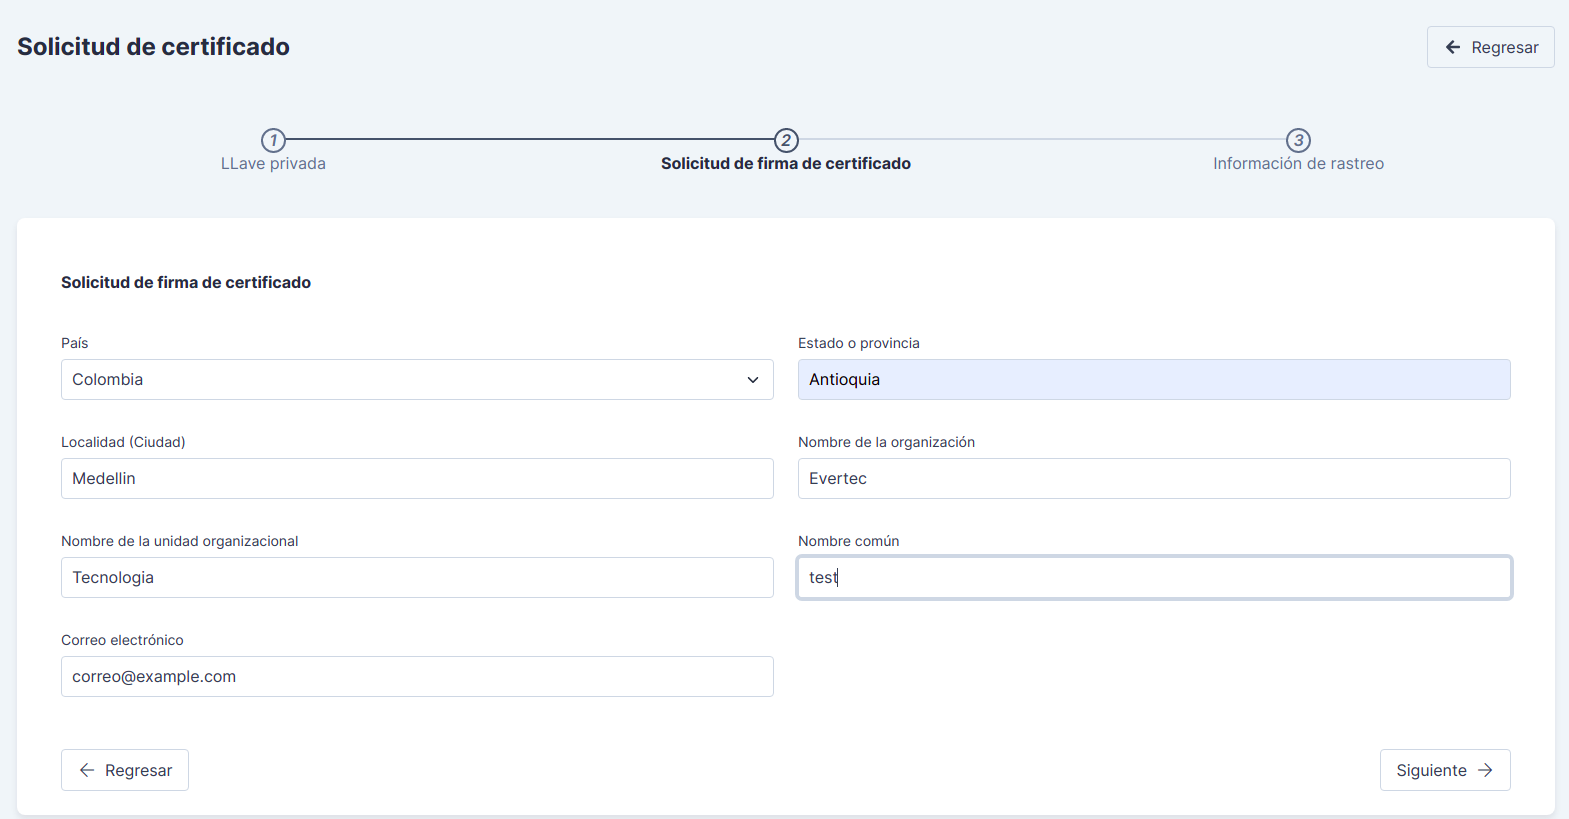
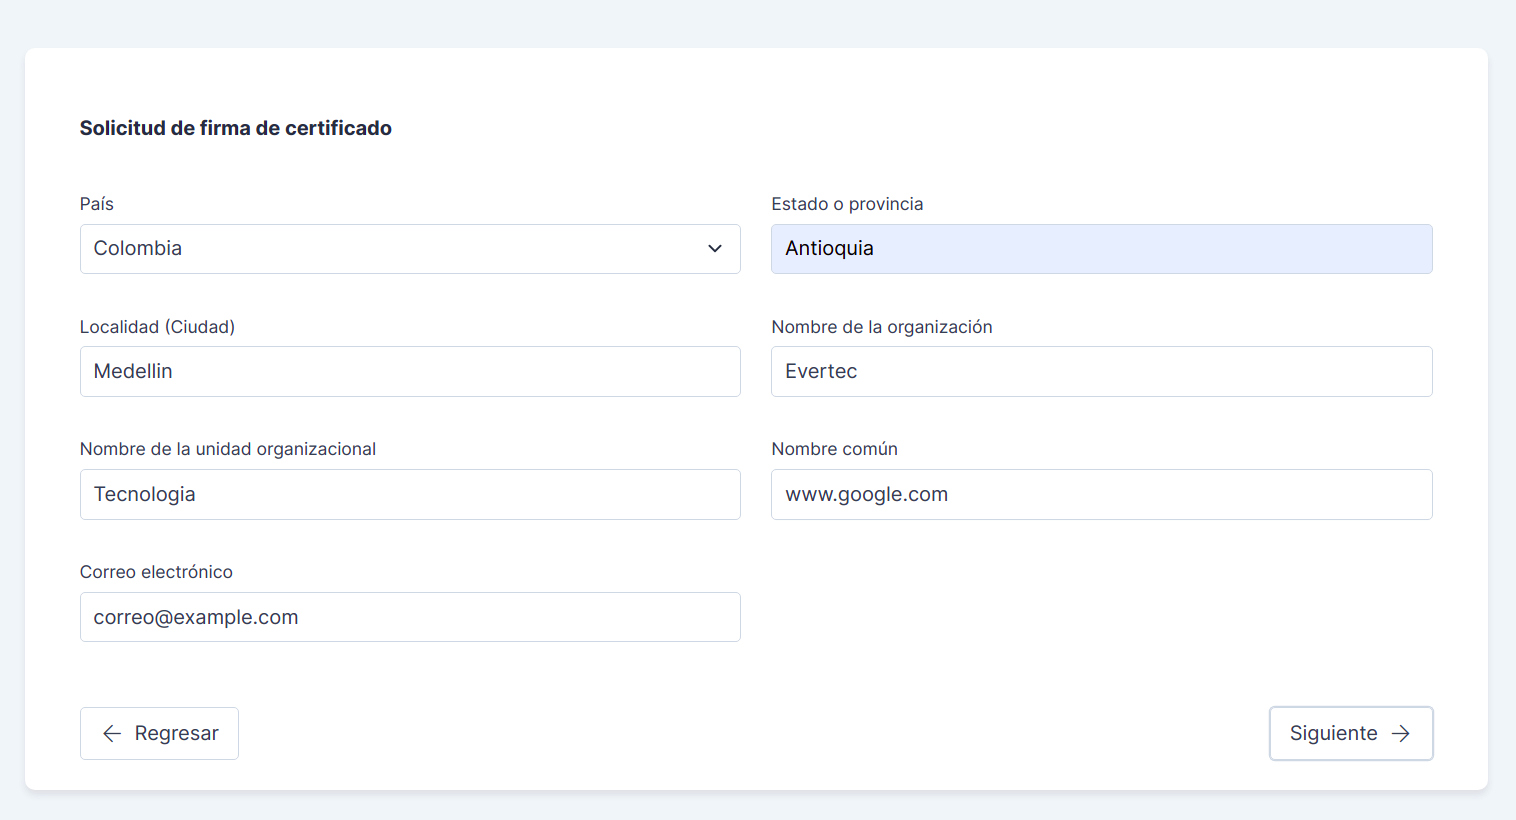
docs: Complement certificates and roles informations

diff --git a/docs/ACSSecurity.md b/docs/ACSSecurity.md
@@ -5,21 +5,40 @@ title: Roles
 
 # Roles
 
-Aquí se gestionan los roles de usuario de la aplicación. Inicialmente se tiene una vista con la lista de roles creados, los cuales se pueden ver, editar y eliminar. Además, se pueden crear nuevos roles diligenciando un nombre y opcionalmente una descripción para el mismo.
+Para acceder a este módulo y a los demás comprendidos en la categoria seguridad, dírijase al menú ubicado en la parte lateral izquierda, y despliegue la opción de *Seguridad*.
+
+![](../assets/images/security-menu.png)
+
+En este módulo se gestionan los roles de usuario de la aplicación. Inicialmente se tiene una vista con la lista de roles creados, los cuales se pueden ver, editar y eliminar haciendo clic en las opciones del menú desplegable ubicado en la parte lateral derecha. 
 
 ![](../assets/images/roles-index.png)
 
-### Asignación de permisos:
+### Crear nuevo rol:
+
+Además, se pueden crear nuevos roles mediante el botón *Crear*, ubicado en la parte lateral derecha. Se debe diligenciar un nombre y opcionalmente una descripción para el mismo.
+
+![](../assets/images/create-role.png)
+
+En la parte inferior de los detalles de un rol se puede visualizar una sección con tres pestañas que direccionan a tres funcionalidades diferentes:
+
+### 1. Permisos:
 
 Al dar clic en la opción *Ver* de un rol, se presentarán los detalles del rol seleccionado y en la parte inferior de la pantalla encontrará un menú como el siguiente:
 
 ![](../assets/images/permissions.png)
 
-Aquí puede buscar permisos referentes a diversas funcionalidades de ACS, seleccionarlos, denegarlos y concederlos. Estos permisos determinan las funcionalidades y acciones a las cuales tiene acceso el rol.
+Aquí se pueden buscar permisos referentes a diversas funcionalidades de ACS, seleccionarlos, denegarlos y concederlos. Estos permisos determinan las funcionalidades y acciones a las cuales tiene acceso el rol.
+Además, se pueden conceder y denegar otros roles al actual.
 
-### Roles ancestros:
+### 2. Roles ancestros:
 
-Aquí registran los roles que están utilizando el rol actual. Esto puede darse cuando se le concede un rol a otro rol en el menú de *Permisos*.
+Aquí registran los roles que están utilizando el rol actual. Esto puede darse cuando se le concede un rol a otro rol en el menú de *Permisos*. 
+
+> Al crear roles hijos, se permite extender funcionalidades y permisos de un rol padre sin necesidad de volver a asignar una lista de permisos.
+
+### 3. Usado por:
+
+En esta sección se listan los usuarios que usan el rol que seleccionó.
 
 <!--
 type: tab
@@ -28,9 +47,30 @@ title: Perfiles
 
 # Perfiles
 
-Los roles se asocian con los perfiles. El siguiente es un ejemplo de un índice de perfiles, en el cual puede ver, editar, habilitar o deshabilitar un perfil, haciendo clic en el menú lateral derecho. 
+Los roles se asocian con los perfiles. El siguiente es un ejemplo de un índice de perfiles.
+
+Para acceder a este módulo, el usuario con los permisos necesarios para crear los perfiles, ingresa a través del menú despegable ubicado en la izquierda del panel, en la pestaña de seguridad.
+
+Al ingresar al módulo, la plataforma muestra una tabla con los campos del nombre, descripción, rol y fechas de creación y actualización del perfil.
 
 ![](../assets/images/profiles-index.png)
+
+Cada perfil cuenta con unas opciones para ser gestionado como son la opción de ver, editar o deshabilitar.
+
+![](../assets/images/options-profile.png)
+
+- **Opción *Ver*:** Permite visualizar una información más detallada del perfil como son el nombre, si es un perfil compartido o no, la fecha de creación, actualización, y el usuario que lo creó, al igual que los permisos que el perfil tiene a disposición o los que desea agregar. 
+
+Un ejemplo de una vista de detalle de un perfil es el siguiente:
+
+![](../assets/images/detail-profile.png)
+
+- **Opción *Editar*:** Permite actualizar el nombre, descripción, rol y la opción de compartido.
+
+> Es importante tener en cuenta que un perfil no se puede eliminar, ya que existen actividades que se hanrealizado en nombre de ese perfil y si se pudiera eliminar, se puede producir un error. Por esta razón, la aplicación tiene la opción de deshabilitar el perfil para denegar el acceso.
+
+
+### Crear nuevo perfil:
 
 Para crear un nuevo perfil se solicitará:
 
@@ -40,6 +80,7 @@ Para crear un nuevo perfil se solicitará:
 - Compartido, puede habilitar o deshabilitar esta opción. Un perfil compartido se da cuando el perfil está siendo utilizado por otros roles.
 
 ![](../assets/images/profile-create.png)
+
 
 ### ACL:
 

diff --git a/docs/ACSConfigurations.md b/docs/ACSConfigurations.md
@@ -402,11 +402,11 @@ La siguiente imagen muestra un ejemplo de la vista de un índice de certificados
 
 ![](../assets/images/certificates-index.png)
 
-Los certificados se pueden editar y visualizar los detalles del mismo. 
+Los certificados se pueden editar y visualizar los detalles del mismo, haciendo clic en el menú con tres puntos ubicado en la parte lateral derecha de cada certificado.
 
 ## Creación de un certificado:
 
-Para crear un nuevo certificado haga clic en el botón *Crear*. La solicitud o creación del certificado consta de tres partes:
+Para crear un nuevo certificado en ACS, haga clic en el botón *Crear*. La solicitud o creación del certificado consta de tres partes:
 
 #### 1. Creación de la llave privada:
 
@@ -446,10 +446,13 @@ Para crear un nuevo certificado haga clic en el botón *Crear*. La solicitud o c
 
 Aquí se registran los datos de información general sobre el solicitante de la llave:
 
-- Ubicación.
-- Organización.
-- Nombre, debe ser un dominio.
-- Correo electrónico.
+- **País:** Seleccione el país donde se crea el certificado de la lista desplegable.
+- **Estado:** Ingrese el nombre del estado del país en el cual está ubicado.
+- **Localidad:** Ingrese el nombre de la ciudad en el cual está ubicado.
+- **Nombre de la organización:** Ingrese el nombre de la organización para la cual se crea el certificado.
+- **Nombre de la unidad organizacional:** Ingrese el nombre del área de la organización para la cual se genera el certificado.
+- **Nombre común:** Ingrese un nombre de dominio válido, siendo este el título o nombre de la página web de la organización.
+- **Correo electrónico:** Ingrese la dirección de correo electrónico del solicitante del certificado.
 
 
 #### 3. Información de rastreo:
@@ -461,21 +464,30 @@ Permite la identificación a partir de un slug, el cual forma parte de la URL qu
 
 ## Registro y firma del certificado:
 
-Una vez creado el certificado, le mostrará los datos que diligenció en el formulario. Además, de eso creará una solicitud de firma de certificado, como la siguiente:
+Una vez creado el certificado, le mostrará los datos que diligenció en el formulario.
+
+Un ejemplo es el siguiente:
+
+![](../assets/images/certificate-detail.png)
+
+#### ¿Cómo firmar el certificado?
+
+1. Debe copiar este bloque, correspondiente a la solicitud de firma del certificado. Copie el bloque incluyendo las etiquetas de "---BEGIN CERTIFICATE REQUEST---" y "---END CERTIFICATE REQUEST---". 
 
 ![](../assets/images/signature-certificate-request.png)
 
-Debe copiar este bloque incluidas las etiquetas de BEGIN y END CERTIFICATE REQUEST. Con esta información debe proceder a crear su llave privada y a firmar el certificado.
+2. Cree su llave privada y firme el certificado con el bloque de texto que copió.
 
-Una vez tenga su certificado firmado, obtendrá otro bloque similar al de la imagen, debe copiarlo incluyendo también las etiquetas de BEGIN y END CERTIFICATE REQUEST.
+3. Al finalizar el proceso de creación de llaves y firma del certificado, obtendrá un bloque de texto similar al primero que copió. Copie este bloque, incluyendo también las etiquetas de "---BEGIN CERTIFICATE REQUEST---" y "---END CERTIFICATE REQUEST---". 
 
-Luego, en el detalle del certificado, al final encontrará la opción de registrar su certificado:
+4. En el detalle del certificado, al final encontrará la opción de registrar su certificado, haga clic en el enlace con el nombre *Aquí!*.
 
 ![](../assets/images/request.png)
 
-Haga clic allí, lo llevará a la siguiente vista, donde debe pegar su certificado en el campo *Certificado*, así:
+5. Esto lo direccionará a la siguiente vista, donde debe pegar el segundo bloque de texto que copió, el cual corresponde a su certificado, en el campo *Certificado*, así:
 
 ![](../assets/images/register-certificate.png)
 
+6. Haga clic en guardar y con esto obtiene un certificado firmado válido para asegurar la transferencia de información con ACS.
 
 <!-- type: tab-end -->
